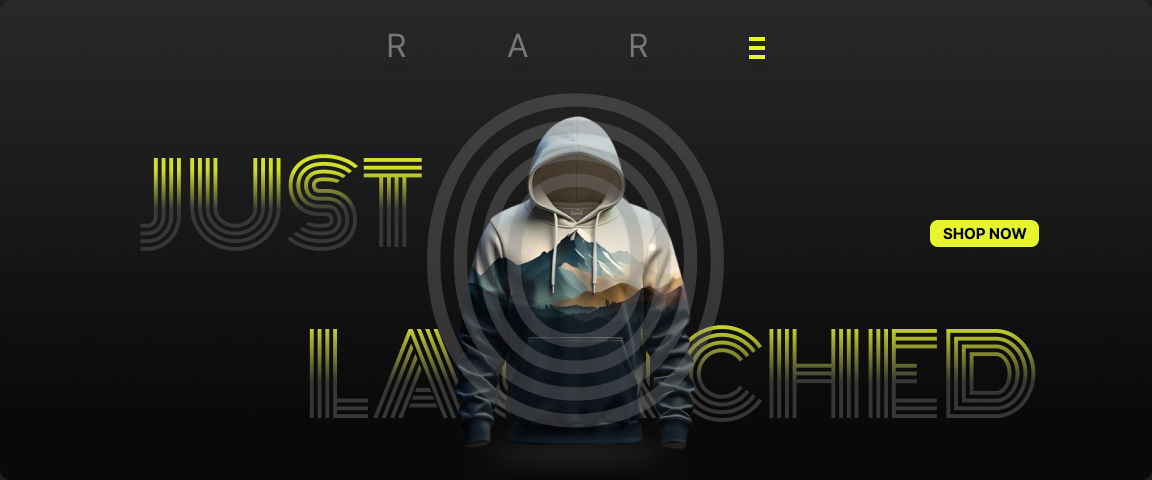
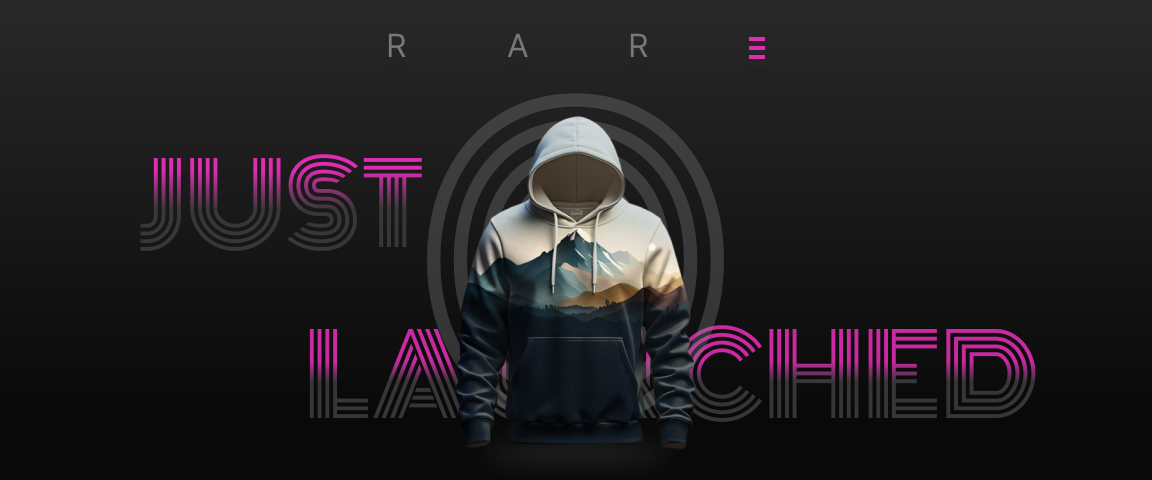
dynamic fetch - RC

diff --git a/FRONTEND/src/assets/components/carousel.jsx b/FRONTEND/src/assets/components/carousel.jsx
@@ -7,6 +7,8 @@ import ArrowForwardIosIcon from "@mui/icons-material/ArrowForwardIos";
 import CarouselCard from "./carouselCard";
 
 const ProductCarouselWithDetails = ({ mainHead, subPara, itemList, Icon }) => {
+  console.log("Item List : ", itemList);
+
   // rotateInt controls the carousel rotation (positive for Prev clicks, negative for Next)
   const [rotateInt, setRotateInt] = useState(0);
   const innerCarouselRef = useRef(null);
@@ -108,6 +110,11 @@ const ProductCarouselWithDetails = ({ mainHead, subPara, itemList, Icon }) => {
   const activeIndex =
     ((-rotateInt % itemList.length) + itemList.length) % itemList.length;
 
+  // Check if itemList is empty to avoid errors
+  if (!itemList || itemList.length === 0) {
+    return <div>No products available.</div>;
+  }
+
   return (
     <div
       className="flex flex-col bg-bg-main py-[5rem]"
@@ -168,11 +175,13 @@ const ProductCarouselWithDetails = ({ mainHead, subPara, itemList, Icon }) => {
                   className={`absolute p-5 w-[18rem] h-[20rem] px-2 rounded-lg shadow-xl ${extraClasses}`}
                 >
                   <CarouselCard
-                    imgSrc={card.imgSrc}
-                    brand={card.badge}
-                    title={card.title}
+                    imgSrc={
+                      card.images?.length > 0
+                        ? card.images[0]
+                        : "/images/placeholder.jpg"
+                    }
+                    title={card.name}
                     price={card.price}
-                    discount={card.discount}
                     rating={card.rating}
                   />
                 </div>
@@ -192,7 +201,7 @@ const ProductCarouselWithDetails = ({ mainHead, subPara, itemList, Icon }) => {
           style={{ width: "30rem", minHeight: "25rem" }}
           ref={detailsRef}
         >
-          <h1 className="text-4xl font-bold">{itemList[activeIndex].title}</h1>
+          <h1 className="text-4xl font-bold">{itemList[activeIndex].name}</h1>
           <p className="text-primary_2 py-4 opacity-80">
             {itemList[activeIndex].description}
           </p>

diff --git a/FRONTEND/src/assets/components/recentAdditions.jsx b/FRONTEND/src/assets/components/recentAdditions.jsx
@@ -1,15 +1,36 @@
+/* eslint-disable no-unused-vars */
+import { useEffect, useState } from "react";
 import { recentCollection } from "../utils/recentCollection";
 import Carousel from "./carousel";
-import NewReleasesIcon from '@mui/icons-material/NewReleases';
+import NewReleasesIcon from "@mui/icons-material/NewReleases";
 
 const RecentAdditions = () => {
+  const [products, setProducts] = useState([]);
+  
+  const [isLoading, setISLoading] = useState(true);
+
+  useEffect(() => {
+    const getProducts = async () => {
+      try {
+        const res = await fetch("http://localhost:3000/get-products");
+        const data = await res.json();
+        console.log(data);
+        
+        setProducts(data.products);
+        setISLoading(false);
+      } catch (error) {
+        console.error("Error fetching products:", error);
+      }
+    };
+    getProducts();
+  }, []);
   return (
     <div id="recent-additions" className="px-4 sm:px-8 md:px-12 lg:px-20">
       <Carousel
         mainHead="New Arrivals"
         Icon={NewReleasesIcon}
         subPara="Chase the Trend with our newest collection"
-        itemList={recentCollection}
+        itemList={products}
       />
     </div>
   );

diff --git a/FRONTEND/src/assets/components/orderSummary.jsx b/FRONTEND/src/assets/components/orderSummary.jsx
@@ -353,11 +353,11 @@ const OrderSummary = ({
                         placeholder="Enter Coupon Code"
                         value={couponCode}
                         onChange={(e) => setCouponCode(e.target.value)}
-                        className="w-[70%] py-2 px-4 rounded-l-xl focus:outline-none"
+                        className="w-[85%] py-2 px-4 rounded-l-xl focus:outline-none text-secondary_light_os"
                       />
                       <button
                         type="submit"
-                        className="py-2 px-6 border border-gray-300 rounded-r-xl uppercase bg-gray-100 hover:bg-gray-200 text-gray-700 font-semibold tracking-wider transition-colors"
+                        className="py-2 px-6 rounded-r-xl uppercase bg-banner_2 font-semibold tracking-wider transition-colors text-primary_2"
                       >
                         Apply
                       </button>

diff --git a/FRONTEND/src/assets/components/productView.jsx b/FRONTEND/src/assets/components/productView.jsx
@@ -206,12 +206,12 @@ const ProductView = () => {
             className="opacity-0 w-full h-[70vh] lg:h-[90vh] relative overflow-hidden flex items-center justify-center px-8"
           >
             {/* LEFT - PRODUCT IMAGE */}
-            <div className="flex-1 flex max-w-[30%]">
+            <div className="flex-1 flex max-w-[40%]">
               <img
                 ref={imageRef}
                 src={mainImage}
                 alt={product?.name || "Product Image"}
-                className="max-h-[30rem] object-cover shadow-lg transition-transform duration-300 hover:scale-[1.01] rounded-lg"
+                className="max-h-[30rem] w-full object-cover shadow-lg transition-transform duration-300 hover:scale-[1.01] rounded-lg"
               />
             </div>
 

diff --git a/FRONTEND/src/assets/components/justLaunched.jsx b/FRONTEND/src/assets/components/justLaunched.jsx
@@ -2,7 +2,7 @@ const ShirtsBanner = () => {
   return (
     <div className="relative md:mx-10 lg:mx-20 rounded-xl sm:h-[26rem] md:h-[30rem] mb-16 ">
       <div>
-        <img src="/images/posters/JUST LAUNCHED (3).png" alt="just launched" className="w-full object-center rounded-xl" />
+        <img src="/images/posters/JUST LAUNCHED (2).png" alt="just launched" className="w-full object-center rounded-xl" />
       </div>
     </div>
   );

diff --git a/FRONTEND/src/assets/components/classics.jsx b/FRONTEND/src/assets/components/classics.jsx
@@ -32,7 +32,7 @@ const Classics = ({ setIsModalOpen }) => {
         <Shop
           itemArray={products}
           heading="Classics"
-          image="/images/posters/classics.jpg"
+          image="/images/posters/CLASSICS 5_page-0001.jpg"
           setIsModalOpen={setIsModalOpen}
         />
       ) : isLoading ? (
